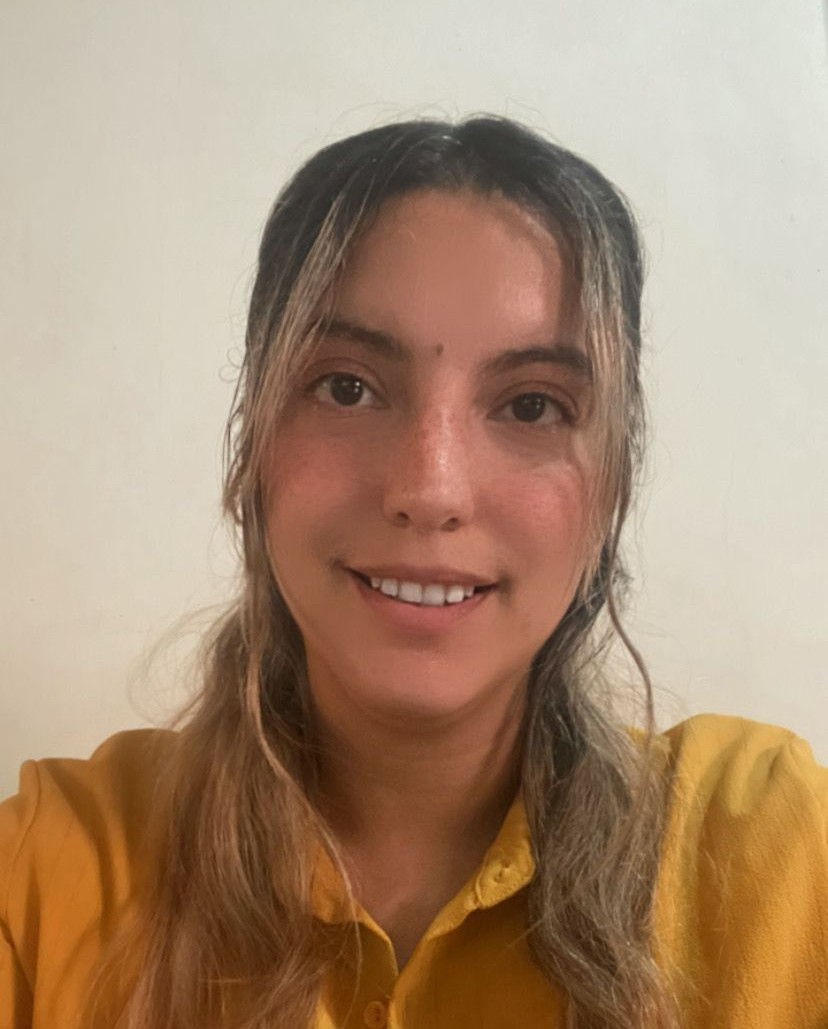
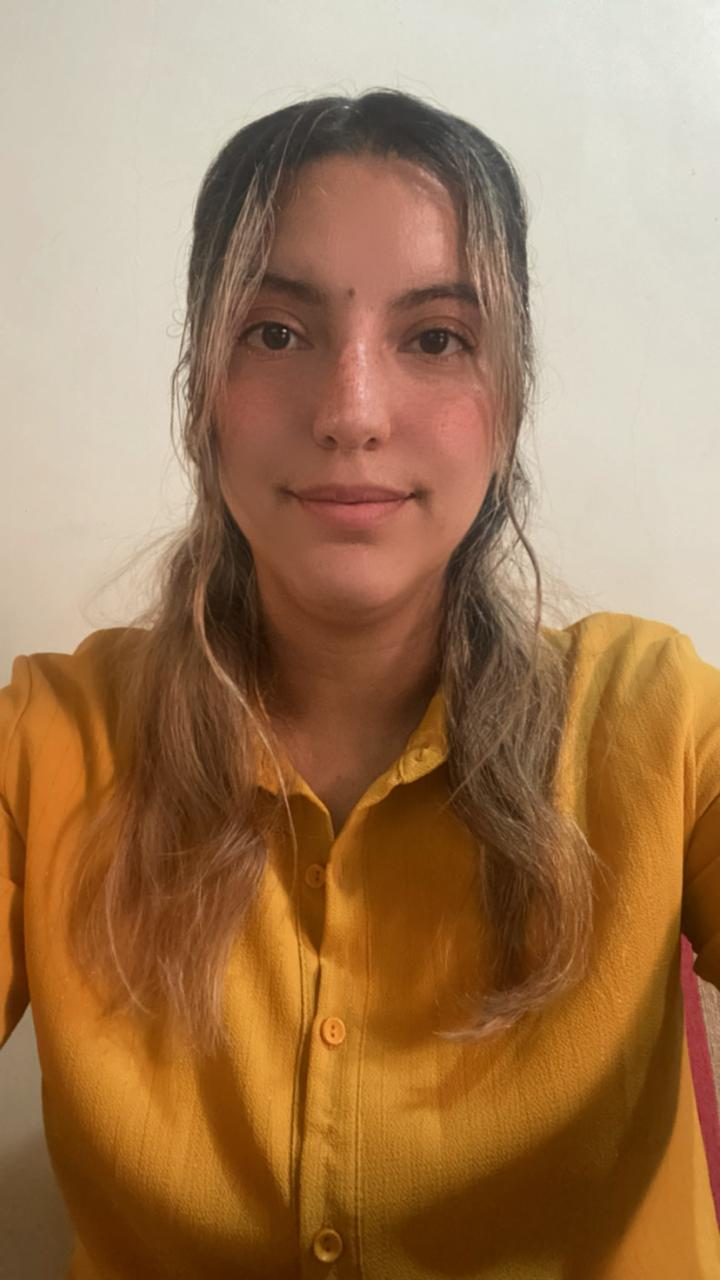
modificaciones

diff --git a/index.html b/index.html
@@ -8,51 +8,48 @@
 </head>
 <body>
 
-<!-- HERO -->
-<section id="inicio" class="hero">
+<!-- HERO + MENU -->
+<header class="hero" id="inicio">
+  <nav class="menu">
+    <ul class="menu-left">
+      <li><a href="#inicio">Inicio</a></li>
+      <li><a href="#perfil">Perfil Profesional</a></li>
+    </ul>
 
-   <div class="hero-content">
-    <h1>Belén Fernández</h1>
-    
+    <span class="logo">Belén Fernández</span>
+
+    <ul class="menu-right">
+      <li><a href="#proyectos">Proyectos</a></li>
+      <li><a href="#contacto">Contacto</a></li>
+    </ul>
+  </nav>
+
+  <div class="hero-content">
     <h2>Diseño Web | Desarrollo Frontend | Ciberseguridad Junior</h2>
-    <p>
-      Diseñadora web en formación con experiencia en creación de sitios responsive,
-      landing pages y estructuras frontend claras.
-      Interés en ciberseguridad y buenas prácticas de desarrollo.
-    </p>
   </div>
-   
+</header>
 
-  <!-- MENU ABAJO -->
-  <header class="hero-menu">
-    <nav>
-      <ul class="menu-left">
-        <li><a href="#inicio">Inicio</a></li>
-        <li><a href="#perfil">Perfil Profesional</a></li>
-        <li><a href="#habilidades">Habilidades</a></li>
-      </ul>
-
-      <span class="menu-name">Belén Fernández</span>
-
-      <ul class="menu-right">
-        <li><a href="#proyectos">Proyectos</a></li>
-        <li><a href="#formacion">Formación</a></li>
-        <li><a href="#contacto">Contacto</a></li>
-      </ul>
-    </nav>
-    
-  </header>
-
-</section>
+<!-- ONDA NEGRO → BLANCO -->
+<div class="wave wave-dark-to-light">
+  <svg viewBox="0 0 1440 140" preserveAspectRatio="none">
+    <path d="M0,80 C240,140 480,20 720,40 960,60 1200,120 1440,80 L1440,0 L0,0 Z"></path>
+  </svg>
+</div>
 
 <!-- PERFIL -->
-<section id="perfil" class="section light">
-  <h2>Perfil Profesional</h2>
-  <p>
-    Soy diseñadora web en formación con interés en ciberseguridad.
-    Trabajo en la creación de sitios modernos, responsivos y organizados,
-    priorizando la experiencia del usuario y la estructura del código.
-  </p>
+<section id="perfil" class="perfil-section">
+  <div class="perfil-foto">
+    <img src="assets/perfil.jpg" alt="Belén Fernández">
+  </div>
+
+  <div class="perfil-texto">
+    <h2>Perfil Profesional</h2>
+    <p>
+      Soy Belén Fernández, desarrolladora web con formación en informática y enfoque en buenas prácticas de desarrollo y ciberseguridad.
+      Desarrollo aplicaciones y sitios web funcionales, mantenibles y responsivos, cuidando tanto la experiencia de usuario como la seguridad básica de la información.
+      Me interesa seguir creciendo en el área IT, participar en proyectos reales y aportar soluciones claras, ordenadas y confiables.
+    </p>
+  </div>
 </section>
 
 <!-- HABILIDADES -->
@@ -61,12 +58,12 @@
   <ul class="skills">
     <li>HTML5 & CSS3</li>
     <li>JavaScript básico</li>
-    <li>Diseño responsive / Flexbox</li>
+    <li>Diseño responsive/ flexbox</li>
     <li>Git & GitHub</li>
     <li>VS Code</li>
     <li>Canva</li>
     <li>Buenas prácticas de seguridad web</li>
-    <li>Introducción a la ciberseguridad</li>
+    <li>Introduccion a la ciberseguridad</li>
   </ul>
 </section>
 
@@ -85,7 +82,7 @@
         <p>
           Desarrollo completo de un sitio web institucional con navegación clara,
           diseño limpio y estructura semántica. Diseño responsive para cualquier dispositivo. 
-          Proyecto evocado en la experiencia del usuario y presentación profesional
+          Proyecto evocado en la experiencia del usuario y presentacion profesional
         </p>
         <p><strong>Tecnologías:</strong> HTML5, CSS3</p>
         <a href="https://escuela-aerochenaut.netlify.app/" target="_blank" class="btn">Ver proyecto</a>
@@ -97,8 +94,10 @@
         <p>
           Landing orientada a conversión, con jerarquía visual,
           diseño mobile-first y enfoque en usabilidad.
-          Desarrollo de una aplicación web de agenda de turnos orientada a pequeños negocios y profesionales independientes.
+          Desarrollo de una aplicacion web de agenda de turnos orientada a pequeños negocios y profesionales independientes.
+          Permite visualizar disponibilidad, organizar horarios y registrar turnos de manera clara y ordenada.
         </p>
+        <p>Se aplicaron buenas practicas de desarrollo frontend y nociones iniciales de seguridad, como validacion de datos y control básico de formularios.</p>
         <p><strong>Tecnologías:</strong> HTML5, CSS3, JavaScript</p>
         <a href="https://feminastudio-turnos.netlify.app/" target="_blank" class="btn">Ver proyecto</a>
       </div>
@@ -107,10 +106,10 @@
         <img src="assets/proyecto3.jpg" alt="E-commerce">
         <h3>E-commerce Virtual</h3>
         <p>
-          Tienda Virtual E-commerce con menú desplegable y carrito de compra.
-          Diseño mobile-first y enfoque en usabilidad.
+          Tienda Virtual E-commerce con menu desplegable y carrito de compra. Diseño adaptado a react.
+          diseño mobile-first y enfoque en usabilidad. Orientado a la venta de productos, con catálogo organizado, visualizacion clara y navegación intuitiva.
         </p>
-        <p><strong>Tecnologías:</strong> HTML5, CSS3, JavaScript, React</p>
+        <p><strong>Tecnologías:</strong> HTML5, CSS3, JavaScript, react</p>
         <a href="https://e-commerce-fernandezhop.netlify.app/" target="_blank" class="btn">Ver proyecto</a>
       </div>
 
@@ -120,21 +119,11 @@
   </div>
 </section>
 
-<!-- FORMACION -->
-<section id="formacion" class="section dark">
-  <h2>Formación y Certificaciones</h2>
-  <ul>
-    <li>Diseño Web – En formación</li>
-    <li>Introducción a la Ciberseguridad</li>
-    <li>Lógica de Programación</li>
-  </ul>
-</section>
-
 <!-- CONTACTO -->
-<section id="contacto" class="section light">
+<section id="contacto" class="section dark">
   <h2>Contacto</h2>
   <p>Email: mbfernandezbelen@gmail.com</p>
-  <p>Teléfono: 2325-402245</p>
+  <p>Telefono: 2325-402245</p>
   <p>
     <a href="https://www.linkedin.com/in/belen-fern%C3%A1ndez-mbf/">LinkedIn</a> |
     <a href="https://github.com/bellfernandez">GitHub</a>

diff --git a/css/styles.css b/css/styles.css
@@ -19,7 +19,7 @@ body {
   height: 100vh;
   background:
     linear-gradient(rgba(0,0,0,.35), rgba(0,0,0,.85)),
-    url("../assets/perfil.jpg") center top/ contain no-repeat;
+    url("../assets/banner.jpg") center top/ contain no-repeat;
   position: 15%;
   display: flex;
   align-items: center;
